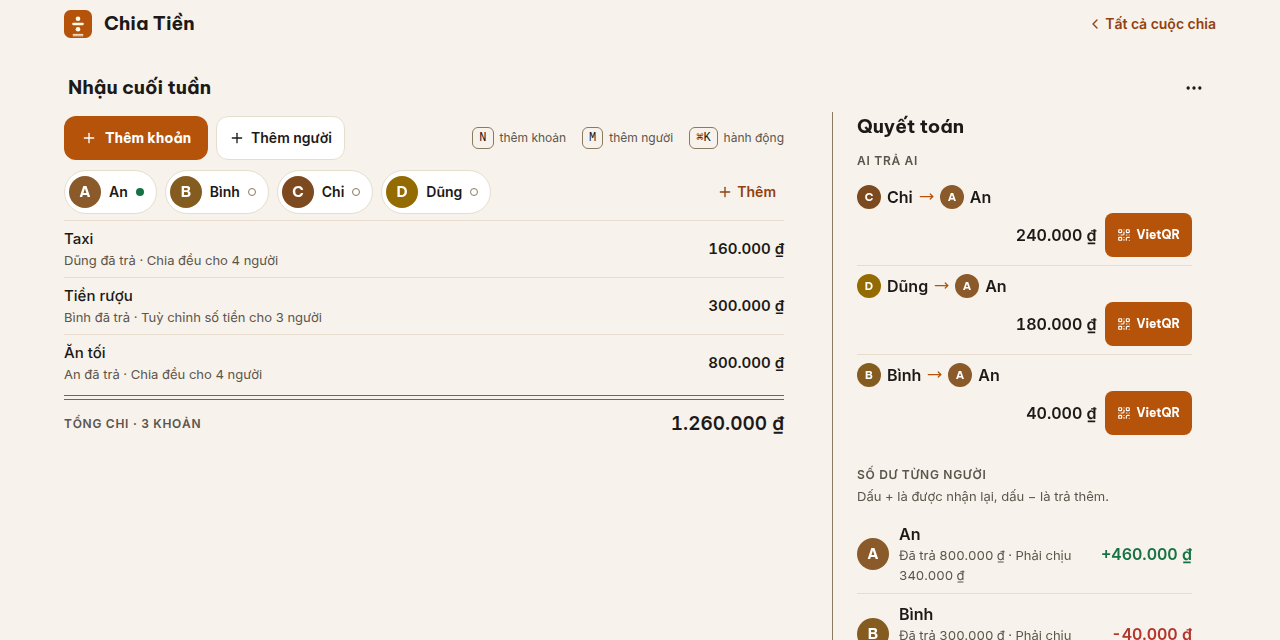
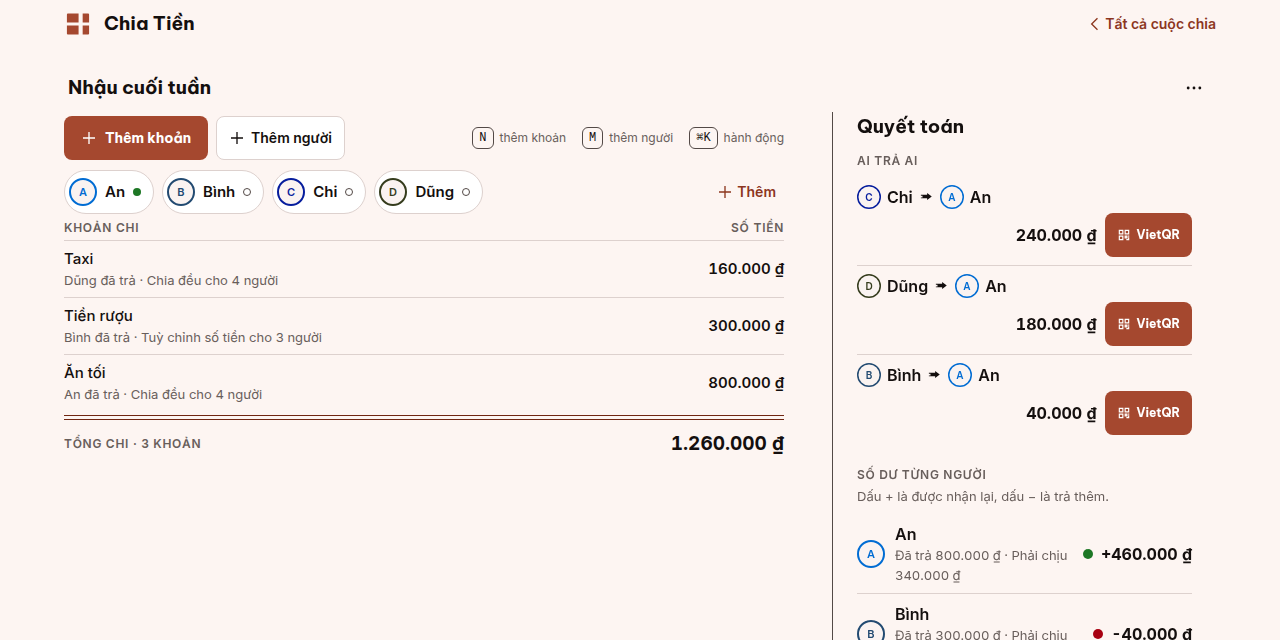
docs: re-shoot screenshot pack on REDESIGN-V3 (v1.6.0) — same dataset, R2 sha256 3/3

diff --git a/docs/screenshots/SHOT-LIST.md b/docs/screenshots/SHOT-LIST.md
@@ -1,14 +1,14 @@
 # SHOT-LIST — screenshot pack chiatien (studio-catalog/chiatien/)
 
-> **Trạng thái (2026-10-23): ĐANG CHỤP LẠI trên bản live v1.4.0 (cc07c0f).**
-> Pack trước chụp ở v1.3.0 (069972e); hình học Settlement Strip/sheet đã đổi
-> ở v1.4.0 (đợt sửa Panel #03 §9) nên grader vòng 4 chỉ cho DOC-03 PASS-TẠM
-> và yêu cầu chụp lại trên v1.4.0. File này ghi lại hợp đồng chụp (tên file
-> giữ nguyên như pack cũ để catalog không gãy) và các TRẠNG THÁI nội dung
-> phải đúng sự thật khi chụp — đặc biệt: pack v1 (HEAD 044b960) từng bị
-> grader bắt lỗi DOC-03/DATA-03 vì gallery-01 in số tài khoản đầy đủ +
-> banner cảnh báo ngân hàng của thiết kế v1, trong khi app hiện tại không
-> còn cả hai. Không được tái sử dụng ảnh cũ.
+> **Trạng thái (2026-10-24): ĐÃ CHỤP LẠI trên bản live v1.6.0 (REDESIGN-V3,**
+> **Deep Orange #A5482F).** Pack trước chụp ở v1.4.0 (cc07c0f); bản V3 đổi
+> toàn bộ nhận diện (màu/mark/avatar/bố cục «Sổ kép») nên pack cũ lệch hẳn.
+> Xem SHOT-WAVE-V3-STATE.md ở repo root để biết sha256 mới + kết quả R2.
+> File này ghi lại hợp đồng chụp (tên file giữ nguyên như pack cũ để catalog
+> không gãy) và các TRẠNG THÁI nội dung phải đúng sự thật khi chụp — đặc
+> biệt: pack v1 (HEAD 044b960) từng bị grader bắt lỗi DOC-03/DATA-03 vì
+> gallery-01 in số tài khoản đầy đủ + banner cảnh báo ngân hàng của thiết kế
+> v1, trong khi app hiện tại không còn cả hai. Không được tái sử dụng ảnh cũ.
 
 ## Hợp đồng file (giữ nguyên tên — R2 studio-catalog/chiatien/)
 
